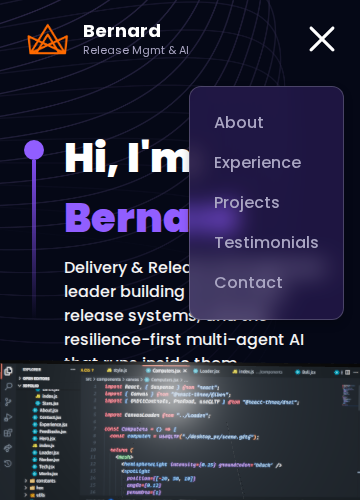
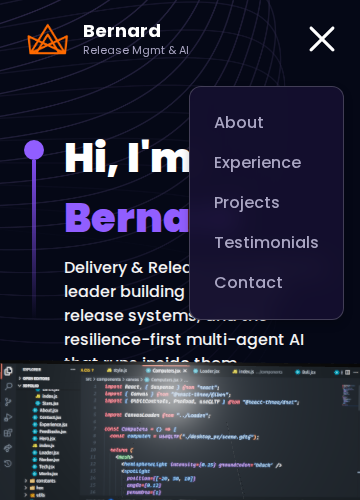
fix: mobile menu closes on Escape/outside click, real toggle button, opaque dropdown
- Escape or a press outside the dropdown and toggle closes the menu and
  returns focus to the toggle; menu links still close it and scroll.
- Toggle is a <button> with aria-label, aria-expanded, aria-controls;
  28px icon, 44x44 hit area (p-2 -m-2 keeps the icon in place).
- Dropdown-only modifier .glass-purple-gradient--opaque: rgba(21,16,48,.9)
  over the shared class's blur; the shared class is unchanged.
- QA: selectors follow the new button/#mobile-menu; assert dropdown opacity
  88-92%, text contrast >= 4.5:1 (prints ratios), no fixed descendants
  under filters in the nav; a crash at any width is reported as a FAIL.

Changed region(s): [[0.5194, 0.27, 0.9472, 0.66]]

diff --git a/src/components/Navbar.jsx b/src/components/Navbar.jsx
@@ -1,4 +1,4 @@
-import React, { useEffect, useState } from 'react';
+import React, { useEffect, useRef, useState } from 'react';
 import { Link } from 'react-router-dom';
 import { styles } from '../styles';
 import { navLinks } from '../constants';
@@ -31,6 +31,38 @@ const Navbar = () => {
   const [active, setActive] = useState('');
   const [toggle, setToggle] = useState(false);
   const [scrolled, setScrolled] = useState(false);
+  const toggleRef = useRef(null);
+  const menuRef = useRef(null);
+
+  // While the mobile menu is open, Escape or a press outside the menu and its
+  // toggle closes it and returns focus to the toggle.
+  useEffect(() => {
+    if (!toggle) return undefined;
+    const close = () => {
+      setToggle(false);
+      toggleRef.current?.focus({ preventScroll: true });
+    };
+    const onKeyDown = (e) => {
+      if (e.key === 'Escape') close();
+    };
+    const onPointerDown = (e) => {
+      if (menuRef.current?.contains(e.target) || toggleRef.current?.contains(e.target)) return;
+      setToggle(false);
+      // The press's own mousedown moves focus after this handler, so return focus
+      // to the toggle once that settles, unless the press focused something else.
+      setTimeout(() => {
+        if (!document.activeElement || document.activeElement === document.body) {
+          toggleRef.current?.focus({ preventScroll: true });
+        }
+      }, 0);
+    };
+    document.addEventListener('keydown', onKeyDown);
+    document.addEventListener('pointerdown', onPointerDown);
+    return () => {
+      document.removeEventListener('keydown', onKeyDown);
+      document.removeEventListener('pointerdown', onPointerDown);
+    };
+  }, [toggle]);
 
   useEffect(() => {
     // const handleScroll = () => {
@@ -145,18 +177,26 @@ const Navbar = () => {
 
         {/* Menu Toggle Button for Small Screens */}
         <div className='lg:hidden flex shrink-0 justify-end items-center'>
-          <img
-            src={toggle ? close : menu}
-            alt='menu'
-            className='w-[28px] h-[28px] object-contain'
+          {/* 28px icon, 44x44px hit area (p-2); -m-2 keeps the icon where it was */}
+          <button
+            type='button'
+            ref={toggleRef}
+            className='p-2 -m-2'
+            aria-label={toggle ? 'Close menu' : 'Open menu'}
+            aria-expanded={toggle}
+            aria-controls='mobile-menu'
             onClick={() => setToggle(!toggle)}
-          />
+          >
+            <img src={toggle ? close : menu} alt='' className='block w-[28px] h-[28px] object-contain' />
+          </button>
 
           {/* Dropdown menu (visible when toggle is true and on small screens) */}
           <div
+            id='mobile-menu'
+            ref={menuRef}
             className={`${
               !toggle ? 'hidden' : 'flex'
-            } p-6 glass-purple-gradient absolute top-full right-0 mx-4 my-2 min-w-[140px] z-10 rounded-xl`}
+            } p-6 glass-purple-gradient glass-purple-gradient--opaque absolute top-full right-0 mx-4 my-2 min-w-[140px] z-10 rounded-xl`}
           >
             <ul className='list-none flex justify-end items-start flex-1 flex-col gap-4'>
               {navLinks.map((nav) => (
@@ -166,7 +206,7 @@ const Navbar = () => {
                     active === nav.title ? 'text-white' : 'text-secondary'
                   }`}
                   onClick={() => {
-                    setToggle(!toggle);
+                    setToggle(false);
                     setActive(nav.title);
                   }}
                 >

diff --git a/src/index.css b/src/index.css
@@ -46,6 +46,12 @@
   /* Subtle shadow */
 }
 
+/* Mobile nav dropdown only: mostly opaque (tertiary #151030 at 90%) so page
+   text behind it is not legible; keeps the shared class's blur and border. */
+.glass-purple-gradient--opaque {
+  background: rgba(21, 16, 48, 0.9);
+}
+
 .violet-gradient {
   background: #804dee;
   background: linear-gradient(-90deg, #804dee 0%, rgba(60, 51, 80, 0) 100%);
